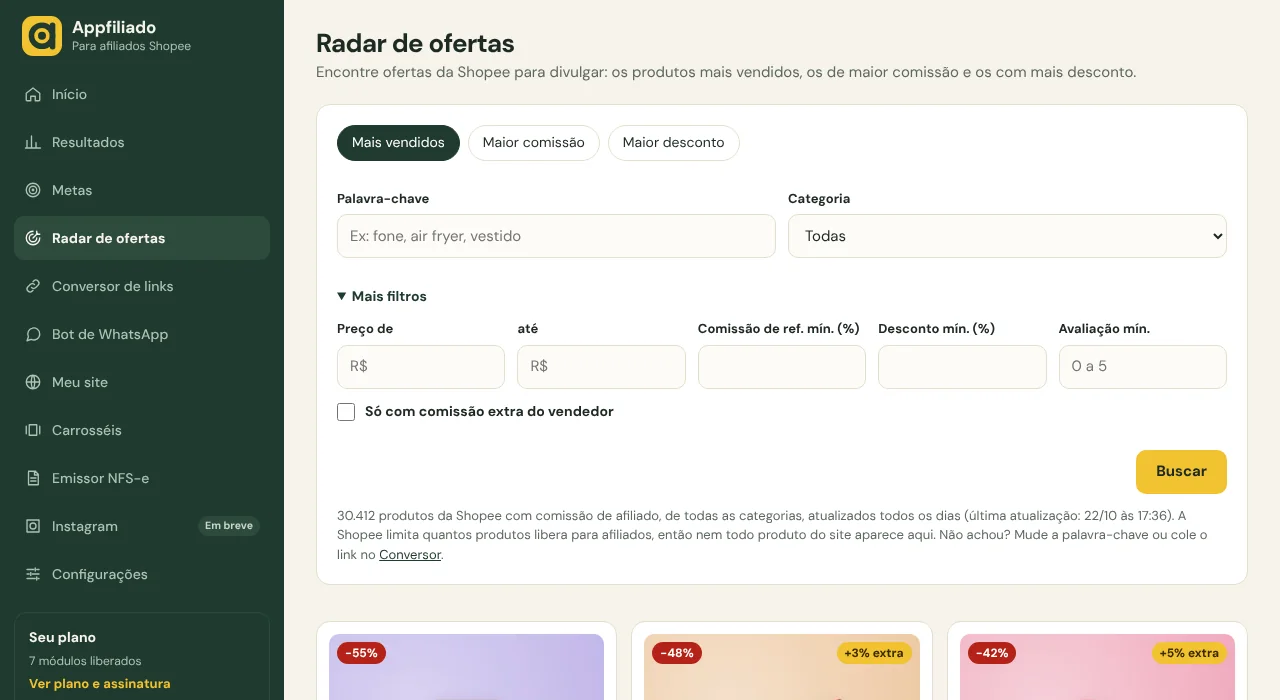
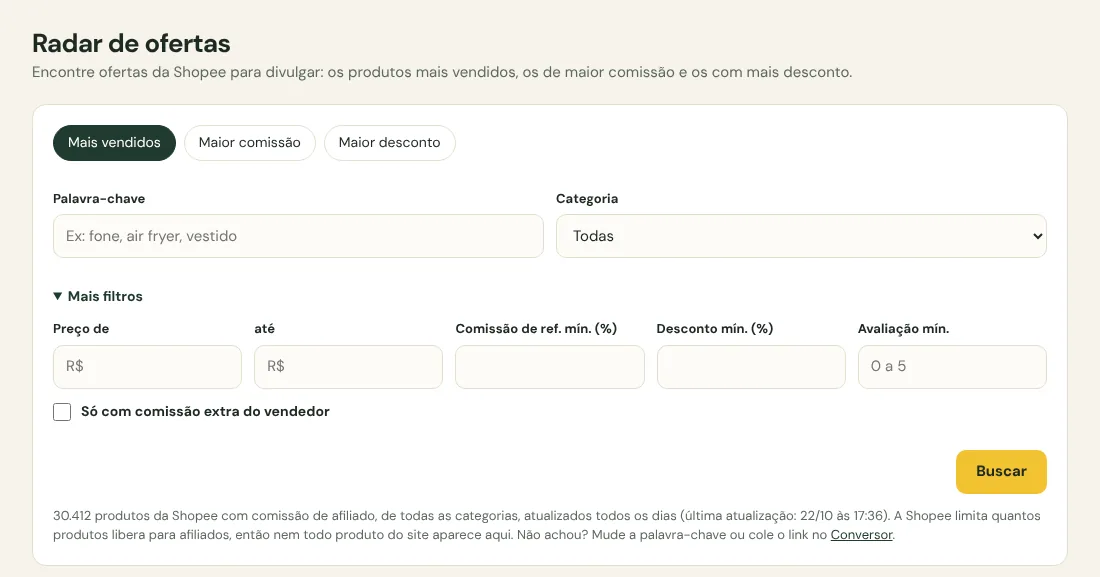
Landing: prints do painel sem o menu lateral, recortados por seção e com versão própria pro celular
Claude-Session: https://claude.ai/code/session_01FQ1xHHHeBcnmfm87PhUMDS

diff --git a/landing/static/landing/landing.css b/landing/static/landing/landing.css
@@ -437,6 +437,7 @@ p { margin: 0; }
 .prints-barra i { width: 10px; height: 10px; border-radius: 50%; background: #CFC8B2; display: block; }
 .prints-barra span { margin-left: 10px; font-size: 12px; color: var(--suave); background: #F6F3EA; border-radius: 999px; padding: 3px 14px; }
 .prints-janela img { display: block; width: 100%; height: auto; }
+.prints-janela picture { display: block; }
 .prints figcaption { margin-top: 14px; font-size: 16px; color: var(--suave); max-width: 760px; }
 .fundo-verde .prints figcaption, .secao-verde .prints figcaption { color: #CFDBD2; }
 .heroi-print .prints-janela { transform: rotate(1.5deg); }
@@ -447,15 +448,6 @@ a.incluso:hover { background: rgba(31,58,46,.06); }
 a.incluso strong { text-decoration: underline; text-decoration-color: transparent; text-underline-offset: 3px; transition: text-decoration-color .2s; }
 a.incluso:hover strong { text-decoration-color: var(--verde); }
 
-.so-movel-nota { display: none; }
-@media (max-width: 640px) {
-  .prints-janela { overflow-x: auto; -webkit-overflow-scrolling: touch; }
-  .prints-janela img, .prints-barra { min-width: 800px; }
-  .prints figcaption { font-size: 15px; }
-  .so-movel-nota { display: inline; }
-  .heroi-print .prints-janela img, .heroi-print .prints-barra { min-width: 0; }
-  .heroi-print .prints-janela { overflow-x: hidden; }
-}
 /* Celular: a seção em passos fica centralizada (título, texto e etapas). */
 @media (max-width: 640px) {
   .bloco-passos .miolo { text-align: center; }

diff --git a/landing/templates/landing/_print_inline.html b/landing/templates/landing/_print_inline.html
@@ -4,9 +4,12 @@
     <figure class="prints-painel">
       <div class="prints-janela">
         <div class="prints-barra" aria-hidden="true"><i></i><i></i><i></i><span>app.appfiliado.com.br</span></div>
-        <img src="{% static p.arquivo %}" width="{{ p.largura }}" height="{{ p.altura }}" alt="{{ p.alt }}" loading="lazy" decoding="async">
+        <picture>
+          <source media="(max-width: 640px)" srcset="{% static p.arquivo_m %}" width="{{ p.largura_m }}" height="{{ p.altura_m }}">
+          <img src="{% static p.arquivo %}" width="{{ p.largura }}" height="{{ p.altura }}" alt="{{ p.alt }}" loading="lazy" decoding="async">
+        </picture>
       </div>
-      <figcaption>{{ p.legenda }}<span class="so-movel-nota"> Deslize pro lado pra ver tudo.</span></figcaption>
+      <figcaption>{{ p.legenda }}</figcaption>
     </figure>
   {% endfor %}
 </div>

diff --git a/marketing/appfiliado/prints/final.py b/marketing/appfiliado/prints/final.py
@@ -1,9 +1,9 @@
-import os
-AQUI = os.path.dirname(os.path.abspath(__file__))
+import io, os
 from playwright.sync_api import sync_playwright
 from PIL import Image
-import io
-B="http://localhost:8765"; OUT = os.path.abspath(os.path.join(AQUI, "..", "..", "..", "landing", "static", "landing", "prints")) + "/"
+AQUI = os.path.dirname(os.path.abspath(__file__))
+B = "http://localhost:8765"
+OUT = os.path.abspath(os.path.join(AQUI, "..", "..", "..", "landing", "static", "landing", "prints")) + "/" if "marketing" in AQUI else "/home/user/site-cashback-shopee/landing/static/landing/prints/"
 TEXTO = """🔥 OFERTAS 11.11 NA SHOPEE 🔥
 
 Fone Bluetooth com cancelamento de ruído
@@ -16,50 +16,85 @@ Garrafa Térmica 1L Inox
 👉 https://shopee.com.br/Garrafa-Termica-i.555.112233
 
 Entre no nosso grupo: https://chat.whatsapp.com/AbCdEf123"""
-OCULTAR="""(()=>{document.querySelectorAll('*').forEach(e=>{const s=getComputedStyle(e); if((s.position==='fixed'||s.position==='sticky') && /salvar/i.test(e.textContent||'') && e.offsetHeight<80) e.style.display='none';});})()"""
-def salvar(nome, png):
-    im=Image.open(io.BytesIO(png)).convert("RGB"); im.save(OUT+nome+".webp","WEBP",quality=84,method=6); print(nome, im.size)
-with sync_playwright() as p:
-    b=p.chromium.launch(executable_path="/opt/pw-browsers/chromium")
-    ctx=b.new_context(viewport={"width":1280,"height":860}); pg=ctx.new_page()
-    pg.goto(B+"/entrar/"); pg.fill("input[name=email]","bia@exemplo.com"); pg.fill("input[type=password]","uma-senha-boa-123"); pg.click("button[type=submit]"); pg.wait_for_load_state()
-    LIMPA = "(()=>{const w=document.createTreeWalker(document.body,NodeFilter.SHOW_TEXT);let n;while(n=w.nextNode()){n.nodeValue=n.nodeValue.replace('http://localhost:8765/s/achadinhosdabia/','https://achadinhosdabia.appfiliado.com.br').replace('localhost:8765/s/','https://');}document.querySelectorAll('a[href*=localhost]').forEach(a=>{});})()"
-    def ir(url, h=860, y=0, depois=None):
-        pg.set_viewport_size({"width":1280,"height":h}); pg.goto(B+url); pg.wait_for_load_state("networkidle"); pg.wait_for_timeout(700)
-        if depois: depois()
-        if y: pg.evaluate(f"window.scrollTo(0,{y})")
+CSS = ".menu{display:none!important}.app{display:block!important}.conteudo{max-width:none!important}"
+OCULTAR = """(()=>{document.querySelectorAll('*').forEach(e=>{const s=getComputedStyle(e); if((s.position==='fixed'||s.position==='sticky') && /salvar/i.test(e.textContent||'') && e.offsetHeight<80) e.style.display='none';});})()"""
+LIMPA = "(()=>{const w=document.createTreeWalker(document.body,NodeFilter.SHOW_TEXT);let n;while(n=w.nextNode()){n.nodeValue=n.nodeValue.replace('http://localhost:8765/s/achadinhosdabia/','https://achadinhosdabia.appfiliado.com.br').replace('localhost:8765/s/','https://');}})()"
+RADAR_TXT = """(()=>{const p=[...document.querySelectorAll('p')].find(e=>/produtos da Shopee com comiss/.test(e.textContent)); if(p) p.innerHTML=p.innerHTML.replace(/^\\s*\\d+ produtos/,'30.412 produtos');})()"""
+
+def converter(pg):
+    pg.fill("textarea", TEXTO); pg.fill("input[name=sub_id]", "grupovip"); pg.click("button:has-text('Converter')")
+    pg.wait_for_load_state("networkidle"); pg.wait_for_timeout(600)
+    pg.evaluate("document.querySelectorAll('textarea').forEach(t=>{t.style.height=(t.scrollHeight+4)+'px'})")
+
+def topo(sel):
+    return lambda pg: pg.evaluate(f"document.querySelector({sel!r}).closest('section,.card,article').getBoundingClientRect().top+scrollY-16")
+def cartao_do_titulo(rx):
+    return f"""(()=>{{const h=[...document.querySelectorAll('h2,h3')].find(e=>/{rx}/.test(e.textContent.trim())); return h.closest('section,.card,article');}})()"""
+def botoes(pg):
+    return pg.evaluate("(()=>{const h=[...document.querySelectorAll('h2,h3')].find(e=>/^Botões/.test(e.textContent.trim())); return h.closest('section,.card').getBoundingClientRect().top+scrollY-16;})()")
+def cartoes(pg):
+    return pg.evaluate("(()=>{const i=[...document.querySelectorAll('main img')].find(e=>/8766/.test(e.src)); return i.closest('article,li,.card').getBoundingClientRect().top+scrollY-16;})()")
+def fim_titulos(*rxs):
+    """Termina o recorte no fim do cartão mais baixo entre os títulos dados (nunca no meio de uma seção)."""
+    def f(pg, tag):
+        return max(pg.evaluate(f"(()=>{{const h=[...document.querySelectorAll('h2,h3')].find(e=>/{rx}/.test(e.textContent.trim())); const c=h.closest('section,.card,article'); return c.getBoundingClientRect().bottom+scrollY+16;}})()") for rx in rxs)
+    return f
+def antes_do_titulo(rx):
+    def f(pg, tag):
+        return pg.evaluate(f"(()=>{{const h=[...document.querySelectorAll('h2,h3')].find(e=>/{rx}/.test(e.textContent.trim())); return h.closest('section,.card,article').getBoundingClientRect().top+scrollY-12;}})()")
+    return f
+def fim_cartoes(desktop, celular):
+    def f(pg, tag):
+        n = celular if tag else desktop
+        return pg.evaluate(f"(()=>{{const c=[...document.querySelectorAll('main img')].filter(e=>/8766/.test(e.src)).map(e=>e.closest('article,li,.card'))[{n}-1]; return c.getBoundingClientRect().bottom+scrollY+16;}})()")
+    return f
+def antes_dos_cartoes(pg, tag):
+    return cartoes(pg) - 8
+
+# nome, url, ação antes, onde começa, onde termina (função) ou altura fixa
+SHOTS = [
+ ("inicio", "/", None, None, None),
+ ("resultados", "/resultados/?periodo=mes", None, None, antes_do_titulo("^Detalhe por dia")),
+ ("resultados-produtos", "/resultados/?periodo=mes", None, topo("#produtos"), fim_titulos("^Vendas do período")),
+ ("metas", "/metas/", None, None, None),
+ ("radar", "/radar/", RADAR_TXT, None, antes_dos_cartoes),
+ ("radar-produtos", "/radar/", None, cartoes, fim_cartoes(8, 3)),
+ ("conversor", "/conversor/", converter, None, None),
+ ("bot-conexao", "/whatsapp/", None, None, None),
+ ("bot-ofertas", "/whatsapp/ofertas/", None, None, fim_titulos("^Onde e quando")),
+ ("bot-campanhas", "/whatsapp/campanhas/", None, None, fim_titulos("^Ritmo nesses dias", "^Como funciona", "^Prévia de uma oferta")),
+ ("bot-alerta", "/whatsapp/alertas/", None, None, fim_titulos("^Quando avisar", "^Prévia da mensagem")),
+ ("site-editor", "/meu-site/", None, None, fim_titulos("^Perfil", "^Prévia")),
+ ("site-botoes", "/meu-site/", None, botoes, fim_titulos("^Conversor de links")),
+ ("carrossel-editor", "/carrosseis/2/", "espera", None, None),
+ ("notas-lote", "/notas/lote/2/", None, None, lambda pg, tag: 1250 if not tag else 1700),
+ ("notas", "/notas/", None, None, fim_titulos("^Notas dos vendedores", "^Nota da Shopee")),
+]
+
+def tirar(browser, vp, dsf, tag, indice):
+    ctx = browser.new_context(viewport=vp, device_scale_factor=dsf); pg = ctx.new_page()
+    pg.goto(B + "/entrar/"); pg.fill("input[name=email]", "bia@exemplo.com"); pg.fill("input[type=password]", "uma-senha-boa-123"); pg.click("button[type=submit]"); pg.wait_for_load_state()
+    for nome, url, acao, onde, fim in SHOTS:
+        pg.goto(B + url); pg.wait_for_load_state("networkidle"); pg.add_style_tag(content=CSS); pg.wait_for_timeout(1200 if acao != "espera" else 3000)
+        if callable(acao): acao(pg); pg.add_style_tag(content=CSS)
+        elif isinstance(acao, str) and acao != "espera": pg.evaluate(acao)
+        pg.wait_for_timeout(300)
         pg.evaluate(OCULTAR); pg.evaluate(LIMPA); pg.wait_for_timeout(250)
-    def rolar_ate(sel, folga=24):
-        return lambda: pg.evaluate(f"(()=>{{const e=document.querySelector('{sel}'); window.scrollTo(0, e.getBoundingClientRect().top+scrollY-{folga});}})()")
-    # início, resultados, metas
-    ir("/", 780); salvar("inicio", pg.screenshot())
-    ir("/resultados/?periodo=mes", 900); salvar("resultados", pg.screenshot())
-    ir("/resultados/?periodo=mes", 900, depois=rolar_ate("#produtos")); salvar("resultados-produtos", pg.screenshot())
-    ir("/resultados/?periodo=mes", 900, depois=rolar_ate("#vendas")); salvar("resultados-vendas", pg.screenshot())
-    ir("/metas/", 700); salvar("metas", pg.screenshot())
-    # radar
-    def texto_radar():
-        pg.evaluate("""(()=>{const p=[...document.querySelectorAll('p')].find(e=>/produtos da Shopee com comiss/.test(e.textContent)); if(p) p.innerHTML=p.innerHTML.replace(/^\\s*\\d+ produtos/,'30.412 produtos');})()""")
-    ir("/radar/", 700, depois=texto_radar); salvar("radar", pg.screenshot())
-    ir("/radar/", 900, y=610); salvar("radar-produtos", pg.screenshot())
-    # conversor
-    def converter():
-        pg.fill("textarea",TEXTO); pg.fill("input[name=sub_id]","grupovip"); pg.click("button:has-text('Converter')"); pg.wait_for_load_state("networkidle"); pg.wait_for_timeout(600)
-        pg.evaluate("document.querySelectorAll('textarea').forEach(t=>{t.style.height=(t.scrollHeight+4)+'px'})")
-    ir("/conversor/", 1010, depois=converter); salvar("conversor", pg.screenshot())
-    # bot
-    ir("/whatsapp/", 700); salvar("bot-conexao", pg.screenshot())
-    ir("/whatsapp/ofertas/", 900); salvar("bot-ofertas", pg.screenshot())
-    ir("/whatsapp/alertas/", 900); salvar("bot-alerta", pg.screenshot())
-    ir("/whatsapp/campanhas/", 900); salvar("bot-campanhas", pg.screenshot())
-    # meu site
-    ir("/meu-site/", 900); salvar("site-editor", pg.screenshot())
-    def ate_botoes():
-        pg.evaluate("""(()=>{const h=[...document.querySelectorAll('h2,h3')].find(e=>/^Botões/.test(e.textContent.trim())); const c=h.closest('section,.card')||h; window.scrollTo(0,c.getBoundingClientRect().top+scrollY-24);})()""")
-    ir("/meu-site/", 900, depois=ate_botoes); salvar("site-botoes", pg.screenshot())
-    # carrosséis
-    ir("/carrosseis/2/", 960, depois=lambda: pg.wait_for_timeout(2500)); salvar("carrossel-editor", pg.screenshot())
-    # notas
-    ir("/notas/lote/2/", 860); salvar("notas-lote", pg.screenshot())
-    ir("/notas/", 860, y=190); salvar("notas", pg.screenshot())
-    b.close()
+        y0 = max(0, int(onde(pg))) if onde else 0
+        png = pg.screenshot(full_page=True)
+        im = Image.open(io.BytesIO(png)).convert("RGB")
+        y1 = int(fim(pg, tag)) if fim else im.height // int(dsf)
+        y1 = min(y1, y0 + (2400 if not tag else 2300))
+        crop = im.crop((0, int(y0 * dsf), im.width, min(im.height, int(y1 * dsf))))
+        crop.save(f"{OUT}{nome}{tag}.webp", "WEBP", quality=82 if tag == "" else 80, method=6)
+        indice[nome + tag] = (crop.width // int(dsf), crop.height // int(dsf)); print(nome + tag, crop.size)
+    ctx.close()
+
+if __name__ == "__main__":
+    indice = {}
+    with sync_playwright() as p:
+        b = p.chromium.launch(executable_path="/opt/pw-browsers/chromium")
+        tirar(b, {"width": 1100, "height": 900}, 1, "", indice)
+        tirar(b, {"width": 420, "height": 900}, 2, "-m", indice)
+        b.close()
+    import json; json.dump(indice, open(AQUI + "/tamanhos.json", "w"))

diff --git a/landing/recursos.py b/landing/recursos.py
@@ -485,13 +485,31 @@ PRINTS = {
 }
 
 
-ALTURAS = {"inicio": 780, "resultados": 900, "resultados-produtos": 900, "resultados-vendas": 900, "metas": 700, "radar": 700, "radar-produtos": 900,
-           "conversor": 1010, "bot-conexao": 700, "bot-ofertas": 900, "bot-alerta": 900, "bot-campanhas": 900, "site-editor": 900, "site-botoes": 900,
-           "carrossel-editor": 960, "notas-lote": 860, "notas": 860}
+# Tamanhos (largura, altura) de cada imagem no computador e no celular, em pixels de tela. Saem do final.py.
+TAMANHOS = {
+    "bot-alerta": (1100, 2136, 420, 2300),
+    "bot-campanhas": (1100, 1345, 420, 2300),
+    "bot-conexao": (1100, 972, 420, 1329),
+    "bot-ofertas": (1100, 2361, 420, 2300),
+    "carrossel-editor": (1100, 1726, 420, 1757),
+    "conversor": (1100, 1088, 420, 1746),
+    "inicio": (1100, 1049, 420, 2179),
+    "metas": (1100, 900, 420, 1251),
+    "notas": (1100, 1102, 420, 1710),
+    "notas-lote": (1100, 1250, 420, 1700),
+    "radar": (1100, 577, 420, 703),
+    "radar-produtos": (1100, 1033, 420, 1785),
+    "resultados": (1100, 861, 442, 2144),
+    "resultados-produtos": (1100, 2044, 442, 2300),
+    "site-botoes": (1100, 1206, 420, 1387),
+    "site-editor": (1100, 1249, 420, 2300),
+}
 
 
 def _print(a, leg, alt):
-    return {"arquivo": f"landing/prints/{a}.webp", "legenda": leg, "alt": alt, "largura": 1280, "altura": ALTURAS[a]}
+    w, h, wm, hm = TAMANHOS[a]
+    return {"arquivo": f"landing/prints/{a}.webp", "arquivo_m": f"landing/prints/{a}-m.webp", "legenda": leg, "alt": alt,
+            "largura": w, "altura": h, "largura_m": wm, "altura_m": hm}
 
 
 def prints_de(modulo, secao):

diff --git a/marketing/appfiliado/prints/README.md b/marketing/appfiliado/prints/README.md
@@ -11,4 +11,4 @@ Pra refazer depois de mudar alguma tela:
    (o `servidor_demo.py` troca a Shopee e o WhatsApp por respostas de exemplo).
 5. `python final.py` regrava as imagens `.webp` em `landing/static/landing/prints/`.
 
-Os tamanhos de cada imagem ficam em `landing/recursos.py` (`ALTURAS`): atualize se mudar a altura da captura.
+Cada tela sai em duas versões: computador (1100 px, sem o menu lateral) e celular (`-m`, layout de celular em 2x). Os tamanhos ficam em `landing/recursos.py` (`TAMANHOS`, vêm do `tamanhos.json` que o `final.py` grava): atualize se mudar o recorte.
